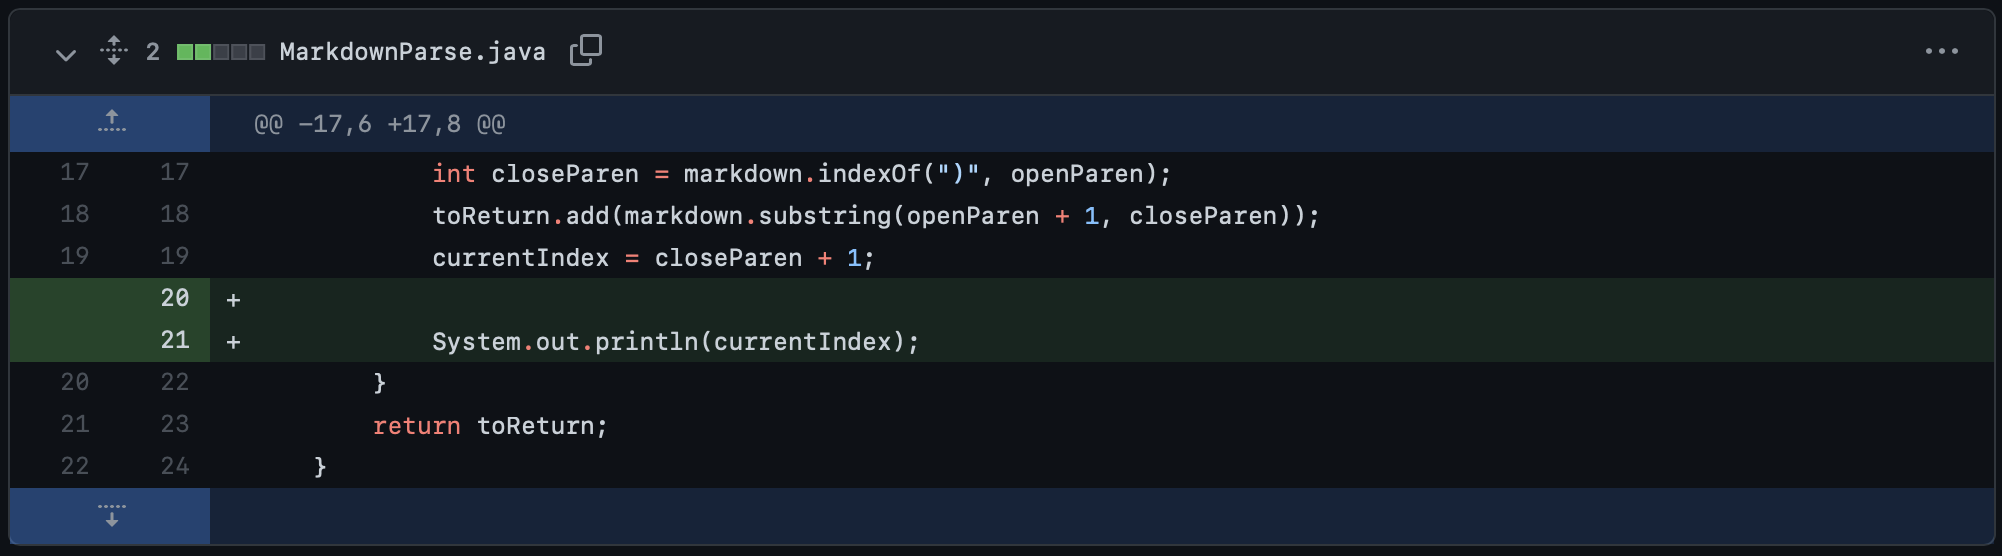
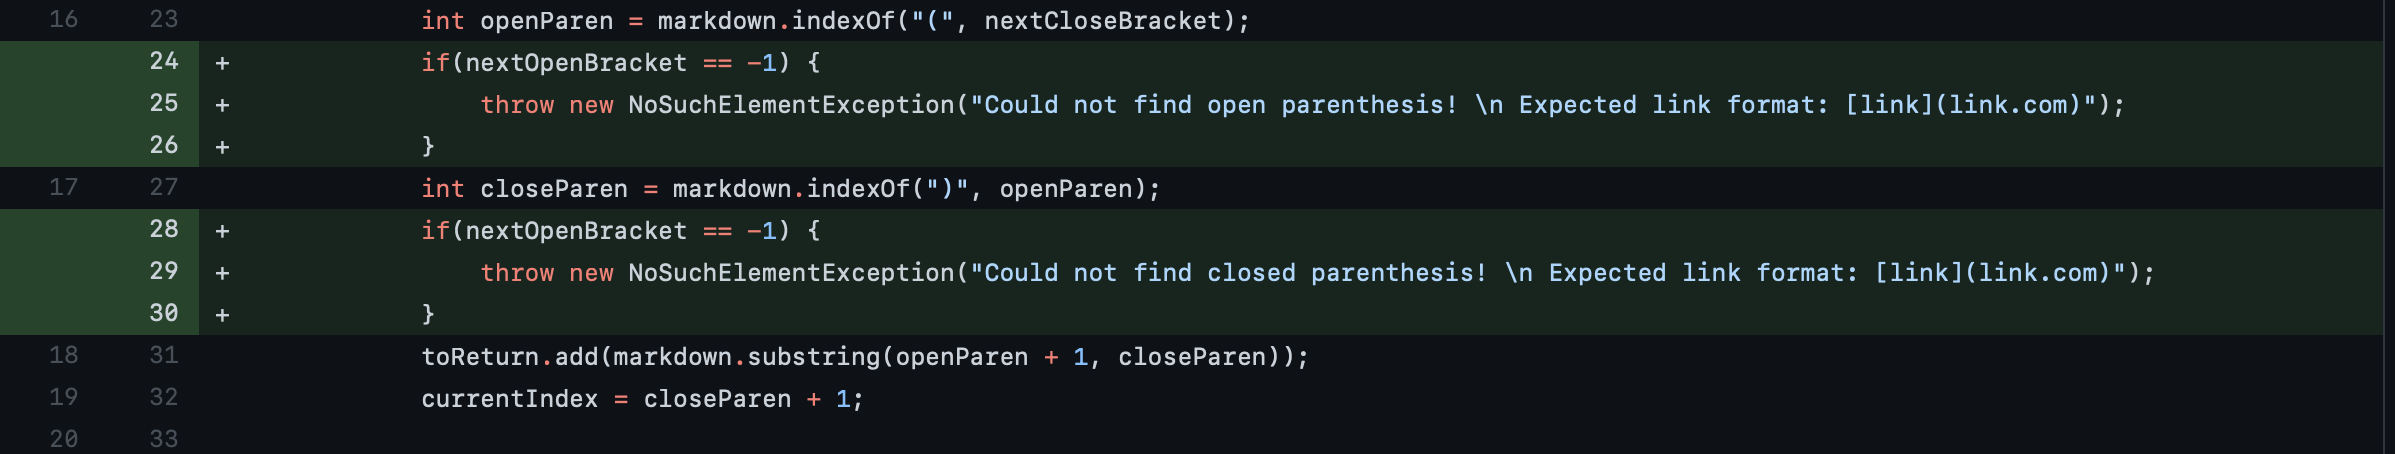
revised lab report 2 according to github issue

diff --git a/lab-report-2-week-4.md b/lab-report-2-week-4.md
@@ -2,7 +2,7 @@
 *Author: Matthew Tan*
 
 ### Code Change #1
-Added print statement to trace values of currentIndex.
+Added two conditional statements to catch bad input (in the case of this test file input, it is the **extra set of parentheses surrounding the link**), send an error message, and print out an example of the expected link format.
 
 ![image](lab2-pngs/lab2-change1.png)
 <a href="https://github.com/Tantime/markdown-parse/commit/10452ee1127f00b75af2cd3884f7e2aa2caad09f" target="_blank">link to test-file3.md</a>
@@ -10,26 +10,26 @@ Added print statement to trace values of currentIndex.
 Symptom:
 ![image](lab2-pngs/lab2-symptom.png)
 
-The symptom of an infinite loop was caused by the failure-inducing input of an md-formatted link enclosed in an extra set of parenthesis. The underlying bug was a never-ending while loop in MarkdownParse's main method due to the conditional `currentIndex < markdown.length()` always being true.
+The underlying bug was the conditional `currentIndex < markdown.length()` always being true causing a never-ending while loop in MarkdownParse's main method. The corresponding symptom was an infinite loop caused by the failure-inducing input of an md-formatted link enclosed in an **extra set of parentheses** in test-file3.md.
 
 ### Code Change #2
-Added print statement to trace values of closeParen.
+Added two more conditional statements to catch bad input (in the case of this test file input, it is the **extra set of brackets surrounding the link**), send an error message, and print out an example of the expected link format.
 
 ![image](lab2-pngs/lab2-change2.png)
-<a href="https://github.com/Tantime/markdown-parse/commit/10452ee1127f00b75af2cd3884f7e2aa2caad09f" target="_blank">link to test-file3.md</a>
+<a href="https://raw.githubusercontent.com/Tantime/markdown-parse/5ef0d5f8974af0d029001422cf50cfbedc429f73/test-file4.md" target="_blank">link to test-file4.md (shown as raw because github displays md-style formatting)</a>
 
 Symptom:
 ![image](lab2-pngs/lab2-symptom.png)
 
-The symptom was an infinite loop caused by the failure-inducing input of an md-formatted link enclosed in an extra set of parenthesis. The underlying bug was still the never-ending while loop in MarkdownParse's main method due to the conditional `currentIndex < markdown.length()` always evauluating to true.
+The underlying bug was still the never-ending while loop in MarkdownParse's main method due to the conditional `currentIndex < markdown.length()` always evauluating to true. The symptom was an infinite loop caused by the failure-inducing input of an md-formatted link enclosed in an **extra set of brackets** in test-file4.md.
 
 ### Code Change #3
-Created JUnit tests to compare expected behavior with actual behavior.
+Added conditionals and error messages to handle bad user input.
 
-![image](lab2-pngs/lab2-getlinks2-getlinks3.png)
-<a href="https://github.com/Tantime/markdown-parse/commit/10452ee1127f00b75af2cd3884f7e2aa2caad09f" target="_blank">link to test-file3.md</a>
+![image](lab2-pngs/lab2-change3.png)
+<a href="https://github.com/Tantime/markdown-parse/blob/main/test-file5.md" target="_blank">link to test-file5.md</a>
 
 Symptom:
-![image](lab2-pngs/lab2-junit-output.png)
+![image](lab2-pngs/lab2-symptom3.png)
 
-The symptom and bug was the same as in the first two examples, but the print statements we added earlier helped our lab group trace the values of `currentIndex` and `closeParen` while the program was running. With those values we were able to deduce that `closeParen` would always evaluate to -1 from calling `markdown.indexOf(")", openParen)`. The `indexOf` method evaluated to `-1` due to a domino effect initially caused by the program using the first parenthesis' index for `openParen`.
+The symptom in the case of test-file5.md was a StringIndexOutOfBoundsException being thrown when attempting to parse the given input. The bug causing the error was the `markdown.substring(openParen + 1, closeParen)` being given invalid, out-of-bounds arguments that result from bad user input.
